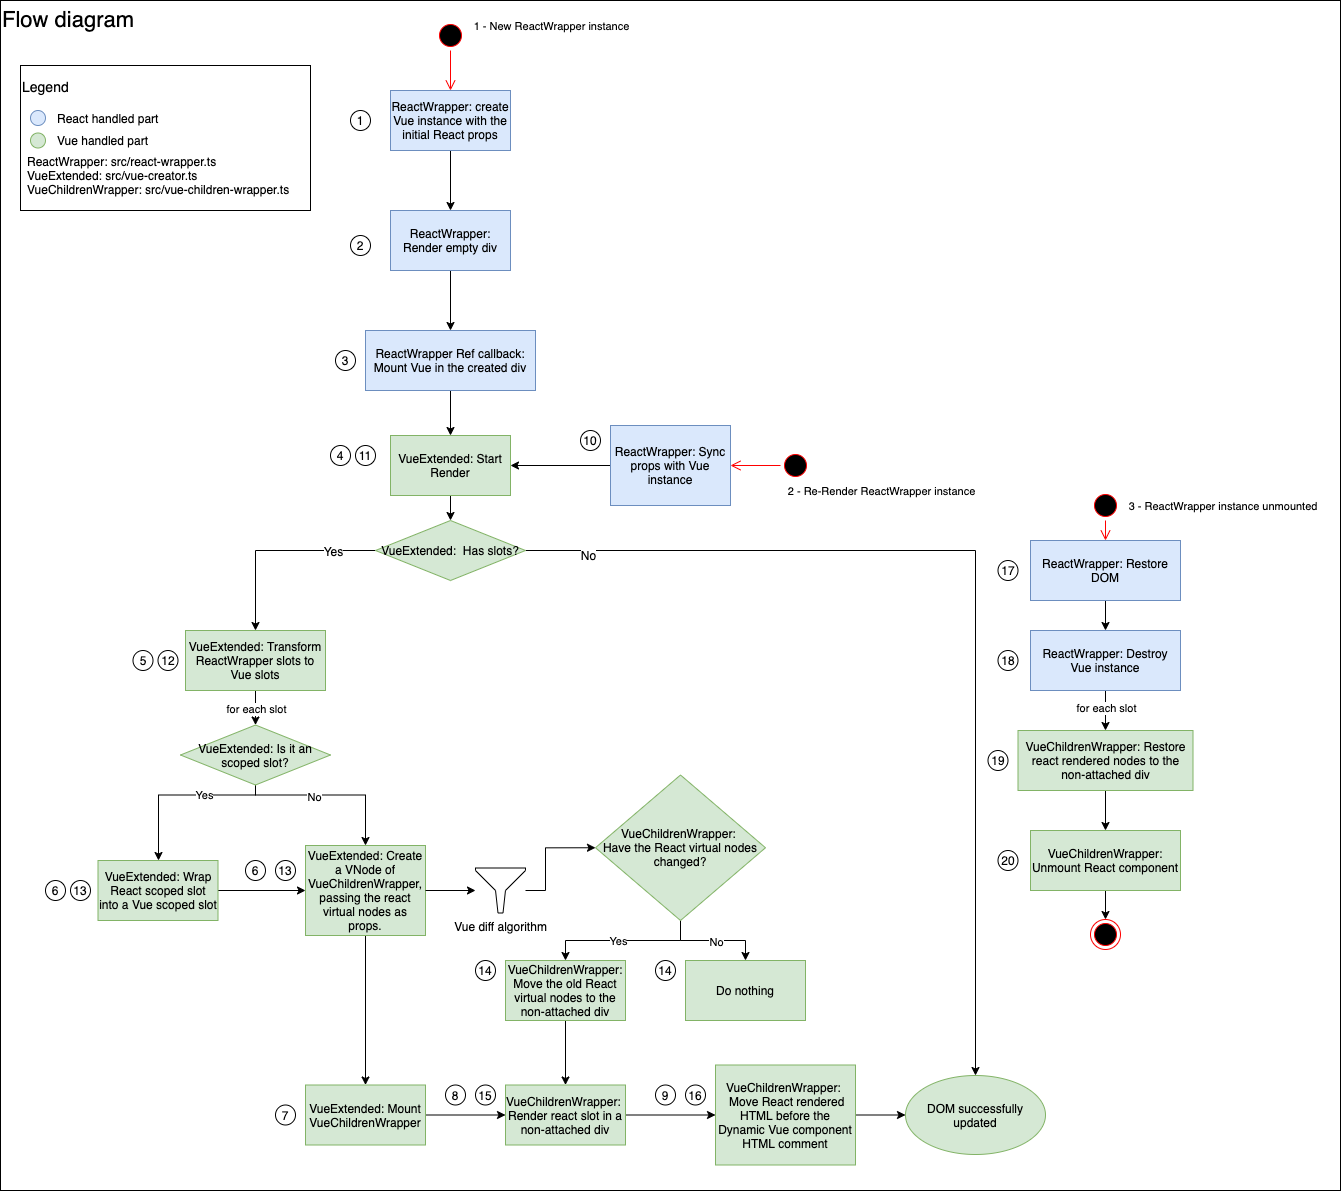
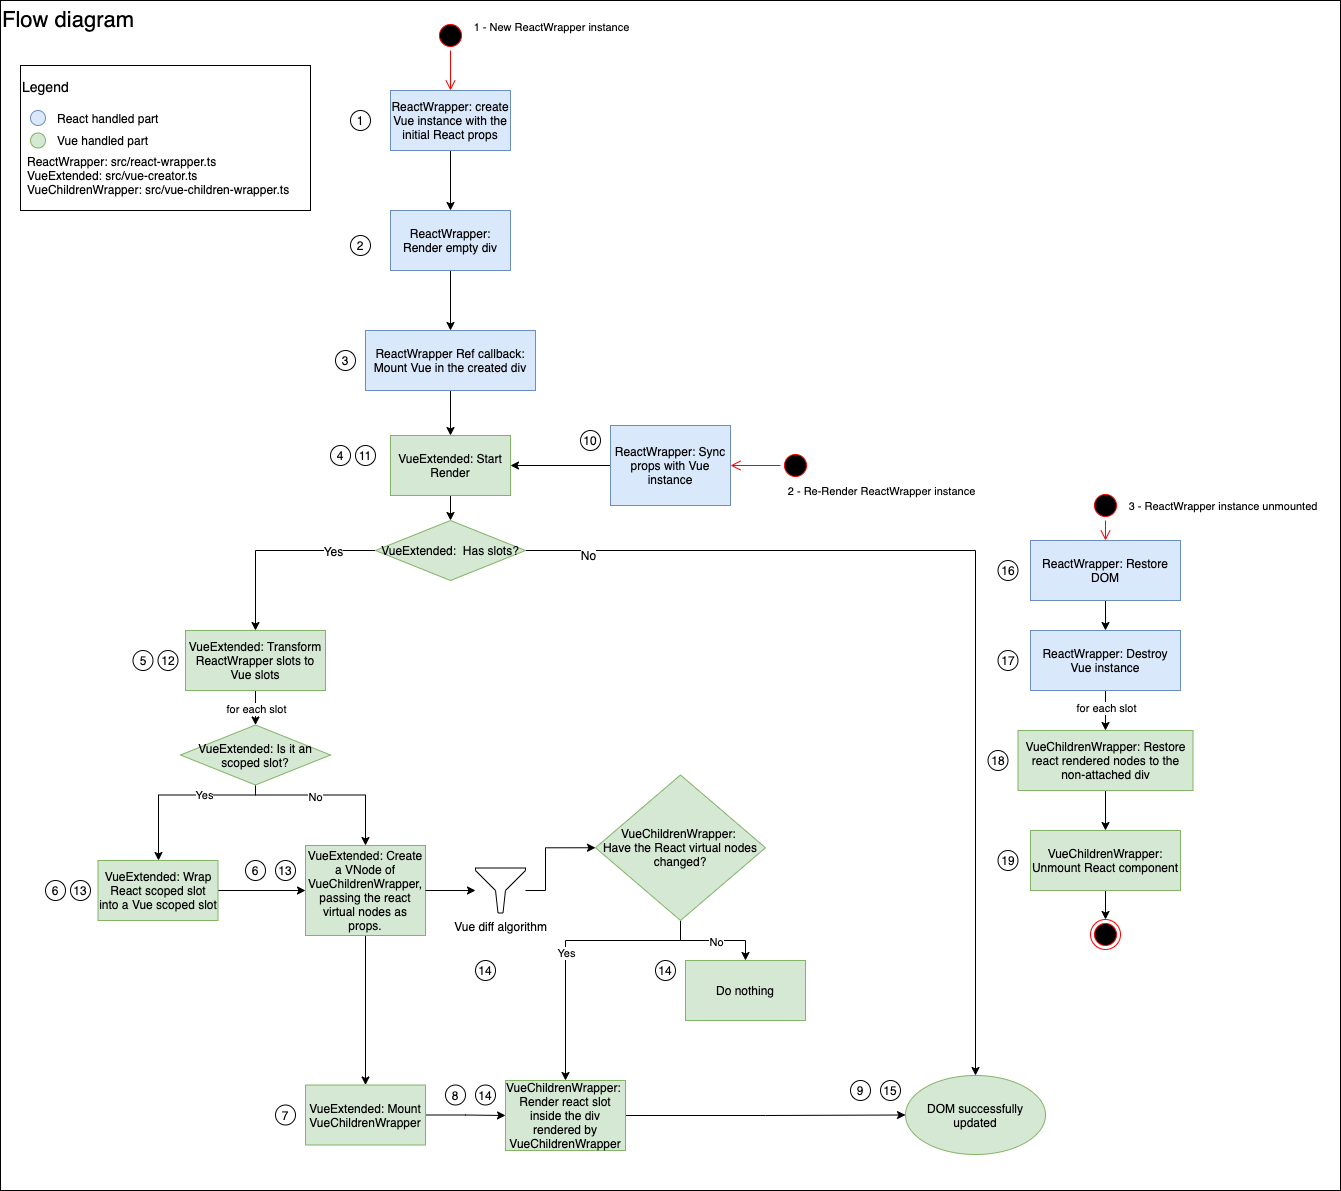
fix(slots): make react-wrapper slots render a wrapper div so children can be properly updated.
BREAKING CHANGE: ReactWrapper slots renders a wrapper `div` with the class `react-wrapper-slot`.

EX-2854

diff --git a/packages/react-wrapper/src/__tests__/react-wrapper-slots.spec.tsx b/packages/react-wrapper/src/__tests__/react-wrapper-slots.spec.tsx
@@ -6,10 +6,6 @@ import { VueSlots } from './stubs/vue-slots.stub';
 import { renderClassComponent, renderReactNode, transformStringIntoASingleLine } from './utils';
 
 describe('testing support of slots in the react-wrapper', () => {
-  /* This is used inside tests because we have to keep the Vue reference, and it renders a
-   comment to do so. */
-  const vueComment = '<!---->';
-
   it('renders default slot', () => {
     const root = renderReactNode(
       <ReactWrapper component={VueSlots}>
@@ -21,13 +17,15 @@ describe('testing support of slots in the react-wrapper', () => {
 
     expect(root.innerHTML).toEqual(
       transformStringIntoASingleLine(`
-      <div class="react-wrapper">
-        <div>
-          <h1>Hello world!</h1>
-          This is working
-          <strong>Vue rules!</strong>${vueComment}
-        </div>
-      </div>`)
+        <div class="react-wrapper">
+          <div>
+            <div class="react-wrapper-slot">
+              <h1>Hello world!</h1>
+              This is working
+              <strong>Vue rules!</strong>
+            </div>
+          </div>
+        </div>`)
     );
   });
 
@@ -51,9 +49,11 @@ describe('testing support of slots in the react-wrapper', () => {
       <div class="react-wrapper">
         <div>
           <section>
+            <div class="react-wrapper-slot">
             <p>Vue says: Hell yeah!</p>
             Second line
-            <span>Bye</span>${vueComment}
+            <span>Bye</span>
+          </div>
           </section>
         </div>
       </div>`)
@@ -68,7 +68,11 @@ describe('testing support of slots in the react-wrapper', () => {
     expect(root.innerHTML).toEqual(
       transformStringIntoASingleLine(`
         <div class="react-wrapper">
-          <section><span>Vue says: Hello</span>${vueComment}</section>
+          <section>
+            <div class="react-wrapper-slot">
+              <span>Vue says: Hello</span>
+            </div>
+          </section>
         </div>`)
     );
 
@@ -81,7 +85,9 @@ describe('testing support of slots in the react-wrapper', () => {
       transformStringIntoASingleLine(`
         <div class="react-wrapper">
           <section>
-            <span>Vue says: Bye</span>${vueComment}
+            <div class="react-wrapper-slot">
+              <span>Vue says: Bye</span>
+            </div>
           </section>
         </div>`)
     );
@@ -95,7 +101,9 @@ describe('testing support of slots in the react-wrapper', () => {
       transformStringIntoASingleLine(`
         <div class="react-wrapper">
           <section>
-            <span>Vue says: Hello</span>${vueComment}
+            <div class="react-wrapper-slot">
+              <span>Vue says: Hello</span>
+            </div>
           </section>
         </div>`)
     );
@@ -109,8 +117,10 @@ describe('testing support of slots in the react-wrapper', () => {
       transformStringIntoASingleLine(`
         <div class="react-wrapper">
           <section>
-            <strong>Vue says: Bye</strong>
-            We are not done yet${vueComment}
+            <div class="react-wrapper-slot">
+              <strong>Vue says: Bye</strong>
+              We are not done yet
+            </div>
           </section>
         </div>`)
     );
@@ -124,8 +134,9 @@ describe('testing support of slots in the react-wrapper', () => {
       transformStringIntoASingleLine(`
         <div class="react-wrapper">
           <section>
-            <p>Vue says: Shutting down</p>
-            ${vueComment}
+            <div class="react-wrapper-slot">
+               <p>Vue says: Shutting down</p>
+            </div>
           </section>
         </div>`)
     );
@@ -148,12 +159,14 @@ describe('testing support of slots in the react-wrapper', () => {
         <div class="react-wrapper">
           <div>
             <section>
-              I'd to have a <strong>${messageProp}</strong>!
-              ${vueComment}
+              <div class="react-wrapper-slot">
+                I'd to have a <strong>${messageProp}</strong>!
+              </div>
             </section>
-            <h1>It is a default slot content</h1>
-            Or children in React.
-            ${vueComment}
+            <div class="react-wrapper-slot">
+              <h1>It is a default slot content</h1>
+              Or children in React.
+            </div>
           </div>
         </div>`)
     );

diff --git a/packages/react-wrapper/src/vue-children-wrapper.tsx b/packages/react-wrapper/src/vue-children-wrapper.tsx
@@ -1,0 +1,67 @@
+import ReactDOM, { Renderer } from 'react-dom';
+import { CreateElement } from 'vue';
+import { defineComponent } from './vue-creator.utils';
+
+type ReactRenderableElement = Parameters<Renderer>[0];
+/**
+ * Vue component that renders a React Node, which is provided via props.
+ * This component is part of the mechanism that allows using Slots/Children of the
+ * {@link ReactWrapper} inside a Vue component.
+ */
+export const VueChildrenWrapper = defineComponent({
+  props: {
+    slotContent: {
+      required: true,
+      type: [Object, Array, String]
+    }
+  },
+  render(h: CreateElement) {
+    return h('div', { staticClass: 'react-wrapper-slot' });
+  },
+  mounted() {
+    /*
+     * Create a container element, and then render the ReactSlotContent into it.
+     * After React has rendered the element or elements inside this container, we create a
+     * fragment with the slot contents, that can be a single node or multiple ones, and insert
+     * it before the element that Vue created (which is a comment), using a fragment to
+     * increase performance. Then, we create hook in the Vue component, to remove the react
+     * rendered nodes before destroying component.
+     */
+    this.$watch(
+      'slotContent',
+      (slotContent: ReactRenderableElement) => {
+        ReactDOM.render(slotContent, this.$el);
+      },
+      { immediate: true }
+    );
+  },
+  beforeDestroy() {
+    const container = this.$root.$el.parentElement;
+    /* If the parent exists, we delegate into a mutation observer, to check when the Vue
+     component has been removed from the DOM. Else, we execute the cleanup immediately. */
+    if (container) {
+      /*
+       * We cannot guarantee that neither the `beforeDestroy` or `destroyed` hooks will
+       * be executed after the Vue component has been removed from the DOM. This happens
+       * because Vue transitions depend on these hooks. The component is actually destroyed
+       * immediately,but its DOM content is removed after the leave transitions has ended.
+       * For this reason, the only possible solution is to detect when the DOM has been
+       * modified. A mutation observer that checks if the Vue rendered node has been removed
+       * from the DOM using the `isConnected` property.
+       */
+      const observer = new MutationObserver(() => {
+        if (!this.$el.isConnected) {
+          observer.disconnect();
+          ReactDOM.unmountComponentAtNode(this.$el);
+        }
+      });
+      observer.observe(container, {
+        subtree: true,
+        childList: true,
+        attributes: false
+      });
+    } else {
+      ReactDOM.unmountComponentAtNode(this.$el);
+    }
+  }
+});

diff --git a/packages/react-wrapper/tests/demo/views/slots.view.tsx b/packages/react-wrapper/tests/demo/views/slots.view.tsx
@@ -1,4 +1,5 @@
 import React, { ReactElement, useState } from 'react';
+import { ReactInput } from '../stubs/react-input.stub';
 import { ReactTextSlot } from '../stubs/react-text-slot.stub';
 import { ReactTransitionSlot } from '../stubs/react-transition-slot.stub';
 
@@ -21,6 +22,7 @@ export function SlotsView(): ReactElement {
 
   return (
     <div>
+      {/* Toggle elements */}
       <button onClick={toggleRenderContainer} data-test='toggle-container'>
         Toggle container
       </button>
@@ -33,6 +35,10 @@ export function SlotsView(): ReactElement {
           <ReactTransitionSlot message='Test' show={show} transitionDuration={100} />
         </div>
       )}
+      {/* Input */}
+      <ReactInput />
+
+      {/* Text Slot */}
       <ReactTextSlot data-test='text-slot-content'>text content</ReactTextSlot>
       <ReactTextSlot data-test='no-slot-content' />
     </div>

diff --git a/packages/react-wrapper/tests/demo/stubs/vue-input.ts b/packages/react-wrapper/tests/demo/stubs/vue-input.ts
@@ -1,0 +1,31 @@
+import Vue from 'vue';
+import { VNode } from 'vue/types/vnode';
+
+export const VueInput = Vue.extend({
+  data(): { value: string } {
+    return {
+      value: ''
+    };
+  },
+  methods: {
+    setValue(newValue: string): void {
+      this.value = newValue;
+    }
+  },
+  render(h): VNode {
+    const defaultSlotScope: VueInputDefaultSlotScope = {
+      // eslint-disable-next-line @typescript-eslint/unbound-method
+      setValue: this.setValue,
+      value: this.value
+    };
+    return h('div', [
+      this.$scopedSlots.default!(defaultSlotScope),
+      h('span', `Value: ${this.value}`)
+    ]);
+  }
+});
+
+export interface VueInputDefaultSlotScope {
+  value: string;
+  setValue(newValue: string): void;
+}

diff --git a/packages/react-wrapper/tests/demo/stubs/react-input.stub.tsx b/packages/react-wrapper/tests/demo/stubs/react-input.stub.tsx
@@ -1,0 +1,11 @@
+import React, { ReactElement } from 'react';
+import { ReactWrapper } from '../../../src';
+import { VueInput, VueInputDefaultSlotScope } from './vue-input';
+
+export function ReactInput(): ReactElement {
+  return <ReactWrapper component={VueInput} slots={{ default: ReactInputSlot }} />;
+}
+
+function ReactInputSlot({ setValue }: VueInputDefaultSlotScope): ReactElement {
+  return <input data-test='react-input' onChange={event => setValue(event.target.value)} />;
+}

diff --git a/packages/react-wrapper/tests/e2e/specs/slots.spec.ts b/packages/react-wrapper/tests/e2e/specs/slots.spec.ts
@@ -32,6 +32,10 @@ describe('slots test', () => {
     cy.getByDataTest('react-content').should('not.be.visible');
   });
 
+  it('allows to update a vue component from a react children using scoped slots', () => {
+    cy.getByDataTest('react-input').type('Hello world').should('have.value', 'Hello world');
+  });
+
   it('renders text in the slot', () => {
     cy.getByDataTest('text-slot-content').should('have.text', 'text content');
   });

diff --git a/packages/react-wrapper/README.md b/packages/react-wrapper/README.md
@@ -231,9 +231,9 @@ function App() {
 
 ## Architecture
 
-`ReactWrapper` works by creating an internal Vue instance that is mounted where the `ReactWrapper`
-component should. It replaces a `div` placeholder rendered by the ReactWrapper, taking control of
-the DOM tree from that part.
+`ReactWrapper` works by creating an internal Vue instance that is mounted inside the `ReactWrapper`
+component. Vue rendered content is inserted inside the `div` element rendered by the ReactWrapper,
+taking control of the DOM tree from that part.
 
 Proxying APIs is the "easy" part of this library. React flexibility helps when exposing Vue APIs
 like events or slots. `ReactWrapper` only has to sync the props received with its internal Vue
@@ -241,20 +241,20 @@ instance ones. Whenever the props change, it extracts them again, and notifies t
 about them.
 
 The biggest challenge of this library is the DOM reconciliation. As the DOM is handled by both Vue
-and React, they expect to have full control of it, and if one library makes a change to the DOM, the
-other one shouldn't notice. If we omit slots, this can be done easily. As the `ReactWrapper` only
-renders a `div` which is then replace by the Vue component output, it only has to restore this `div`
-before it is destroyed, and manually destroy de Vue instance. To do so, we use the
-`componentWillUnmount` lifecycle hook.
+and React, they expect to have full control of it, and if one library makes a change to the DOM.
+But, because `ReactWrapper` renders a `div`, and Vue content is inserted inside it, there are no
+problems. React has control of the app until this `div`, and Vue from that point.
 
 On the other hand, slots are a bit more complex. Slots work by using a special Vue component,
-`VueChildrenWrapper`, which receives React virtual nodes as props, and internally create a new React
-instance which renders its content in a non attached `div`, moving then this children next to the
-element rendered by `VueChildrenWrapper` (which is a comment). Like before, we have to reconcile
-these parts before making updates or unmounting the component. Using a Vue watcher, we can observe
-if the React nodes have changed, and if they have, we restore the React DOM nodes to the original
-div. We then instruct React to update these nodes, and when they have been modified, we move them
-back near the comment rendered by `VueChildrenWrapper`.
+`VueChildrenWrapper`. This component renders a `div`, and receives React virtual nodes as props.
+When the `VueChildrenWrapper` component is mounted, it renders the React nodes inside it. Just like
+the `ReactWrapper` does with the children nodes.
+
+The problematic part here is unmounting a component which has animations. When the Vue component is
+destroyed, the React one should be destroyed too. The challenge is that Vue fires `beforeDestroy`
+and `destroyed` hooks before the component is removed from the DOM, and then it runs the leaving
+animations if it has. So the solution is to observe the nodes with a `MutationObserver`. If the
+nodes are detached, then it is safe to unmount the React component too.
 
 ![Flow diagram 1](./docs/assets/flow-diagram-1.png)
 ![Flow diagram 2](./docs/assets/flow-diagram-2.png)
